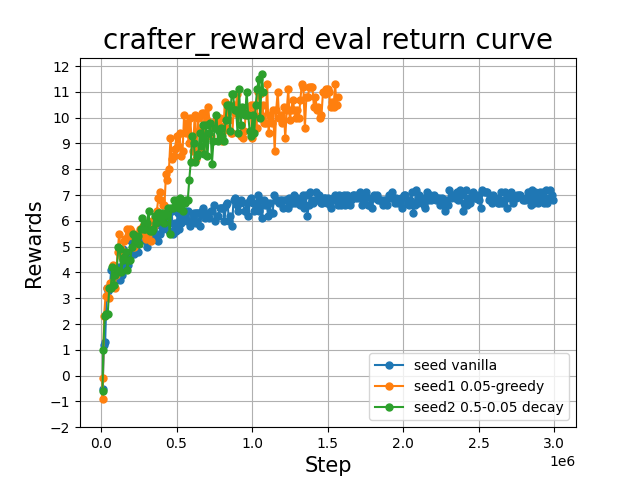
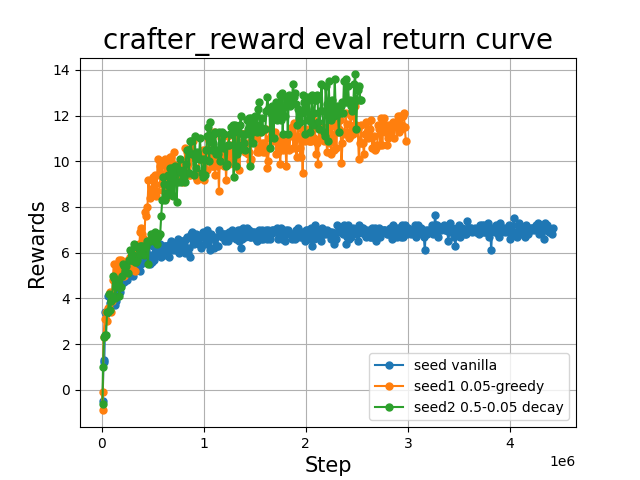
whatever latest change

diff --git a/envs/ball.py b/envs/ball.py
@@ -6,41 +6,11 @@ import PIL.Image as Image
 import gym
 import random
 
-from gym import Env, spaces
+from gym import Env, spaces, wrappers
+from gym.wrappers.monitoring.video_recorder import VideoRecorder
 import time
 
 font = cv2.FONT_HERSHEY_COMPLEX_SMALL 
-
-# class Point(object):
-#     def __init__(self, name, x_max, x_min, y_max, y_min, grid_w):
-#         self.x = 0
-#         self.y = 0
-#         self.x_min = x_min
-#         self.x_max = x_max
-#         self.y_min = y_min
-#         self.y_max = y_max
-#         self.name = name
-#         self.grid_w = grid_w
-#         self.rad = self.grid_w//2
-    
-#     def set_position(self, x, y):
-#         self.x_center = x
-#         self.y_center = y
-    
-#     def get_position(self):
-#         return (self.x_center, self.y_center)
-    
-#     def move(self, new_xid, new_yid):
-#         self.x_center = new_xid*self.grid_w + self.rad
-#         self.y_center = new_yid*self.grid_w + self.rad
-
-#     # def clamp(self, n, minn, maxn):
-#     #     return max(min(maxn, n), minn)
-
-# class Ball(Point):
-#     def __init__(self, name, x_max, x_min, y_max, y_min, grid_w):
-#         super(Ball, self).__init__(name, x_max, x_min, y_max, y_min, grid_w)
-#         cv2.circle(img, center, radius, color, -1)
 
 def translate_points(points, translation_vector):
     return points - translation_vector
@@ -89,7 +59,8 @@ def generate_random_poly_segment(x_range, y_range, degree=5, num_points=256):
     
     return polynomial_segment
 
-
+def video_callable(episode_id):
+    return not (episode_id % 1)
 
 class BallEnv(Env):
     def __init__(self, shape=(64, 64, 3), grid_w=4):
@@ -117,20 +88,21 @@ class BallEnv(Env):
 
         self.green = (0, 255, 0)
         self.red = (0, 0, 255)
+        self.blue = (255, 0, 0)
         self.white = (255, 255, 255)
         self.black = (0, 0, 0)
     
     @property
     def observation_space(self):
-        spaces.Box(low = np.zeros(self.observation_shape), 
+        return spaces.Box(low = np.zeros(self.observation_shape), 
                     high = np.ones(self.observation_shape)*255,
-                    dtype = np.float16)
+                    dtype = np.float64)
 
     @property
     def action_space(self):
         return spaces.Box(low = np.zeros(2), 
                           high = np.array([self.xgrid, self.ygrid]),
-                          dtype = np.float16)
+                          dtype = np.float64)
 
     def draw_on_img(self, xid, yid):
         self.img = np.ones(self.observation_shape) * 1
@@ -204,6 +176,9 @@ class BallEnv(Env):
         # cv2.imwrite("../plots/ball_env.jpg", self.obs["image"])
 
         return self.obs
+    
+    def render(self, mode = "rgb_array"):
+        return self.obs["image"].astype("uint8")
 
     def step(self, action):
         # action = (x, y) coordinates
@@ -223,7 +198,7 @@ class BallEnv(Env):
         
 
         if flat_id in self.bc_cells:
-            color = (255,0,0)
+            color = self.blue
             # only first visit to a critical cell counts
             if not self.bc_cells[flat_id][1]:
                 self.path_cover += 1
@@ -233,12 +208,17 @@ class BallEnv(Env):
         else:
             reward = -1
 
-        
 
         obs = self.obs.copy()
 
         # whiten the previous ball
-        cv2.circle(obs["image"], (obs["pos"][1]*self.grid_w + self.rad, obs["pos"][0]*self.grid_w + self.rad), self.rad, self.white, -1)
+        pre_flat_id = self.ygrid*min(obs["pos"][1], self.ygrid-1) + min(obs["pos"][0], self.xgrid-1)
+        
+        if pre_flat_id in self.bc_cells:
+            fill = self.black
+        else:
+            fill = self.white
+        cv2.circle(obs["image"], (obs["pos"][1]*self.grid_w + self.rad, obs["pos"][0]*self.grid_w + self.rad), self.rad, fill, -1)
 
         obs["pos"] = [xid, yid]
         obs["is_first"] = False
@@ -246,34 +226,43 @@ class BallEnv(Env):
         obs["is_terminal"] = False
 
         done = False
-        info = "Ball moving..."
+        info = {"status":"Ball moving..."}
 
 
         cv2.circle(obs["image"], (yid*self.grid_w + self.rad, xid*self.grid_w + self.rad), self.rad, color, -1)
 
-        self.obs = obs
-        self.steps += 1
-
         if self.steps >= self.max_steps:
             done = True
-            info = "Max length reached :("
+            info["status"] = "Max length reached :("
         
         if self.path_cover >= self.num_cells:
             done = True
-            info = "Entire path covered :)"
+            info["status"] = "Entire path covered :)"
 
         if done:
             obs["is_last"] = True
             obs["is_terminal"] = True
+        
+        self.obs = obs
+        self.steps += 1
             
-        return self.obs, reward, done, info
+        return obs, reward, done, info
 
     def close(self):
         cv2.destroyAllWindows()
 
 
 if __name__ == "__main__":
-    env = BallEnv()
+    # Register the custom environment with Gym
+    env_name = 'BallEnv-v0'  # Replace 'CustomEnv' with your environment's name
+    gym.envs.register(id=env_name, entry_point='ball:BallEnv')
+    # env = BallEnv()
+    env = gym.make('BallEnv-v0')
+    video_dir = "../experiments/ball/ball_trial.mp4"
+    env = wrappers.Monitor(env, video_dir, force=True, video_callable=video_callable)
+
+    # env.metadata = {'render.modes': ['rgb_array'], 'video.frames_per_second': 30}
+
     obs = env.reset()
     done = False
     cv2.imwrite("../experiments/ball/step{}.jpg".format(env.steps), obs["image"])
@@ -283,6 +272,8 @@ if __name__ == "__main__":
         obs, reward, done, _ = env.step(action)
 
         cv2.imwrite("../experiments/ball/step{}.jpg".format(env.steps), obs["image"])
+    
+    env.close()
 
 
 

diff --git a/env_test.py b/env_test.py
@@ -1,6 +1,5 @@
 import gym
-# import minerl
-import minedojo
+# import minedojo
 # import logging
 # logging.basicConfig(level=logging.DEBUG)
 
@@ -18,22 +17,22 @@ import minedojo
 #     obs, reward, done, _ = env.step(action)
 #     env.render()
 
-env = minedojo.make(
-    task_id="harvest_wool_with_shears_and_sheep",
-    image_size=(160, 160)
-)
+# env = minedojo.make(
+#     task_id="harvest_wool_with_shears_and_sheep",
+#     image_size=(160, 160)
+# )
 
-obs = env.reset()
+# obs = env.reset()
 
-print(env.action_space.nvec)
-for i in range(50):
-    act = env.action_space.no_op()
-    act[0] = 1    # forward/backward
-    if i % 10 == 0:
-        act[2] = 1    # jump
-    obs, reward, done, info = env.step(act)
-    # print(obs)
-env.close()
+# print(env.action_space.nvec)
+# for i in range(50):
+#     act = env.action_space.no_op()
+#     act[0] = 1    # forward/backward
+#     if i % 10 == 0:
+#         act[2] = 1    # jump
+#     obs, reward, done, info = env.step(act)
+#     # print(obs)
+# env.close()
 
 # env_list = minedojo.tasks.ALL_TASK_IDS
 
@@ -42,3 +41,45 @@ env.close()
 #     for string in env_list:
 #         # Write each string followed by a newline character
 #         file.write(string + "\n")
+
+import minerl
+
+# Uncomment to see more logs of the MineRL launch
+# import coloredlogs
+# coloredlogs.install(logging.DEBUG)
+ENV_KWARGS = dict(
+    fov_range=[70, 70],
+    frameskip=1,
+    gamma_range=[2, 2],
+    guiscale_range=[1, 1],
+    resolution=[640, 360],
+    cursor_size_range=[16.0, 16.0],
+)
+
+
+env = gym.make("MineRLBasaltFindCave-v0", break_speed_multiplier=100.0)
+
+print(env.action_space)
+# Dict(ESC:Discrete(2), attack:Discrete(2), back:Discrete(2), 
+# camera:Box(low=-180.0, high=180.0, shape=(2,)), drop:Discrete(2), 
+# forward:Discrete(2), hotbar.1:Discrete(2), 
+# hotbar.2:Discrete(2), hotbar.3:Discrete(2), 
+# hotbar.4:Discrete(2), hotbar.5:Discrete(2), 
+# hotbar.6:Discrete(2), hotbar.7:Discrete(2), 
+# hotbar.8:Discrete(2), hotbar.9:Discrete(2), 
+# inventory:Discrete(2), jump:Discrete(2), 
+# left:Discrete(2), pickItem:Discrete(2), 
+# right:Discrete(2), sneak:Discrete(2), 
+# sprint:Discrete(2), swapHands:Discrete(2), use:Discrete(2)
+
+obs = env.reset()
+
+
+done = False
+while not done:
+    ac = env.action_space.noop()
+    # Spin around to see what is around us
+    ac["camera"] = [0, 3]
+    obs, reward, done, info = env.step(ac)
+    env.render()
+env.close()

diff --git a/plot.py b/plot.py
@@ -23,9 +23,9 @@ if __name__ == "__main__":
     return_mode = "{}_return".format(mode)
     plot_txt = 'plots/{0}_rewards.png'.format(env)
     
-    # methods = ["vanilla", "0.05-greedy", "0.5-0.05 decay"]
-    methods = ["inf_life", "inf_life_curiosity"]
-    seeds = ["0","1"]
+    methods = ["vanilla", "0.05-greedy", "0.5-0.05 decay"]
+    # methods = ["inf_life", "inf_life_curiosity"]
+    seeds = ["","1","2"]
 
     rmin = 0
     rmax = 0

diff --git a/envs/minecraft_base.py b/envs/minecraft_base.py
@@ -3,7 +3,7 @@ import threading
 
 import numpy as np
 import gym
-from . import minecraft_minerl
+from . import minecraft_minedojo
 
 def print_in_file(d):
     import json
